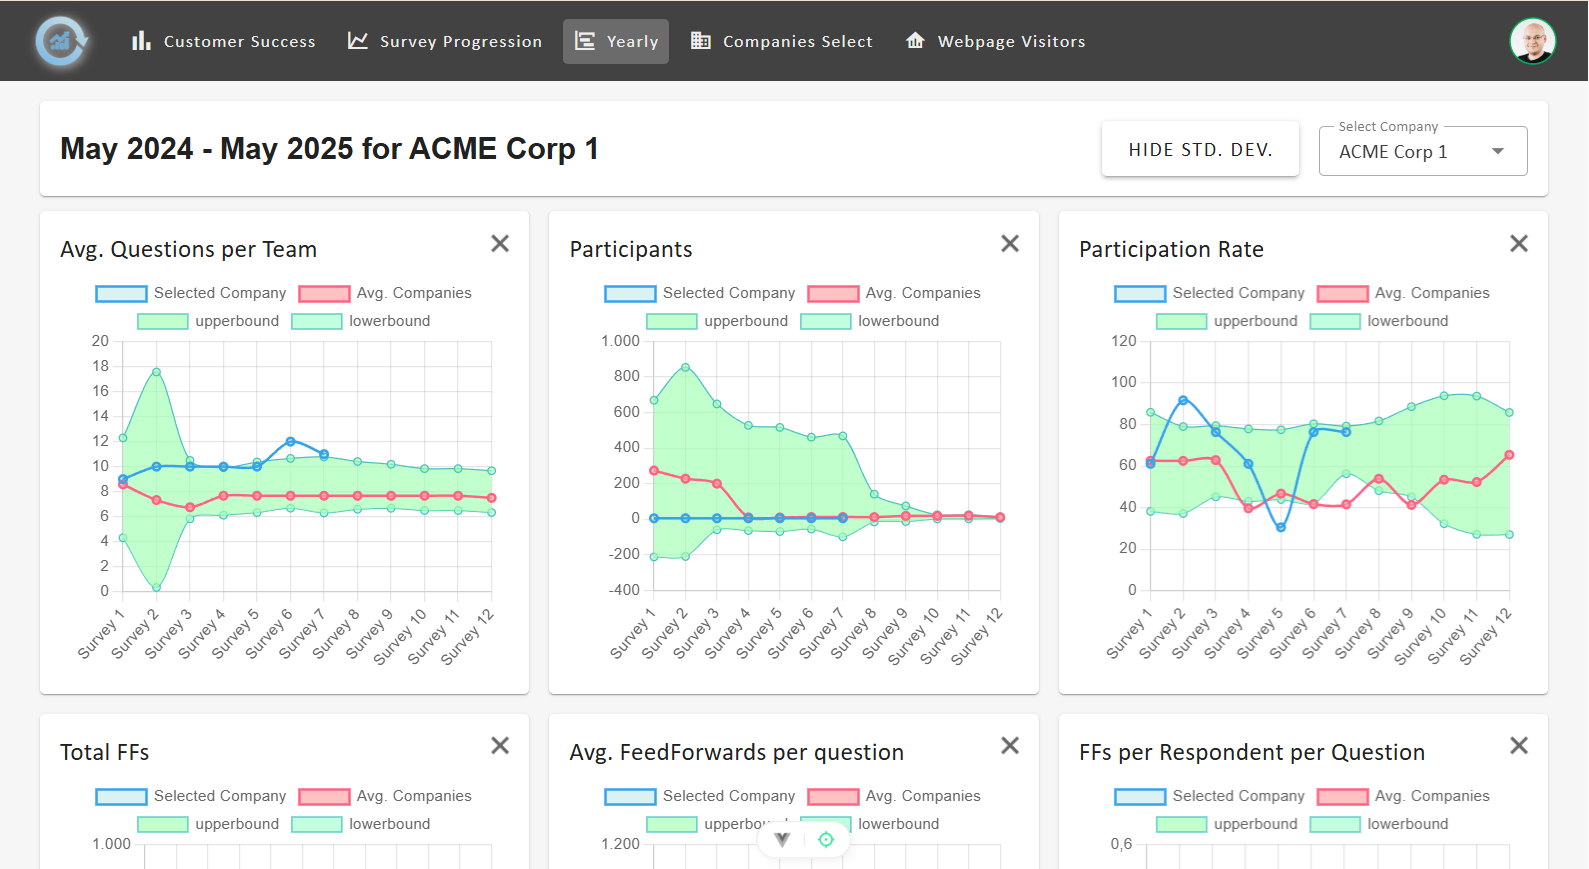
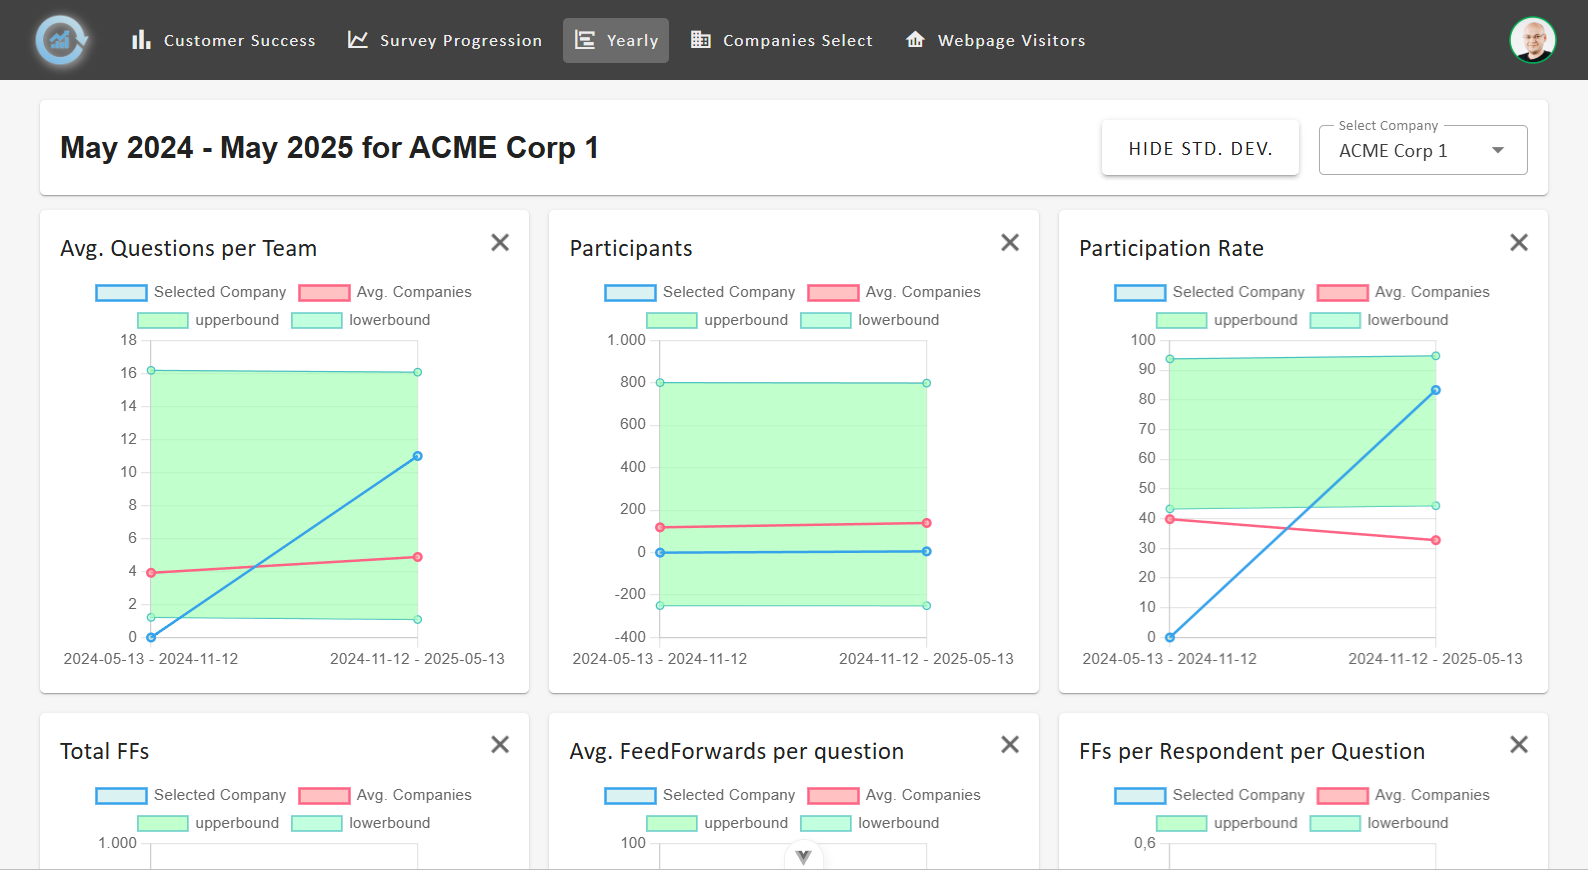
- fix yearly chart

diff --git a/frontend/src/components/views/YearlyDevelopmentDashboard.vue b/frontend/src/components/views/YearlyDevelopmentDashboard.vue
@@ -1,7 +1,12 @@
 <script setup lang="ts">
 import { useI18n } from 'vue-i18n'
 import { computed, ComputedRef, onMounted, Ref, ref } from 'vue'
-import { getKpiAvgPerSurvey, calculateKpiStandardDeviationsPerSurvey } from '@/utils/transformData'
+import {
+  getKpiAvgPerSurvey,
+  calculateKpiStandardDeviationsPerSurvey,
+  transformSurveyData,
+  calculateKpiStandardDeviations,
+} from '@/utils/transformData'
 import { pick } from 'lodash'
 import { PROGRESS_KPI_SORTING_ORDER } from '@/config/constants'
 import { KPIData, RelevantSurveyMetrics, SurveyKPI } from '@/types/SurveyMetrics'
@@ -29,11 +34,51 @@ const { selectedCompaniesRef, selectedCompany } = useUser()
 const savedShowSdtDev = localStorage.getItem('showStdDev')
 const showStdDev: Ref<boolean> = ref(savedShowSdtDev !== null ? JSON.parse(savedShowSdtDev) : false)
 
-const selectedCompanySurveysList = computed(() => {
-  if (selectedCompany?.value.id === 'loading') return []
+const currentDate = new Date()
+const oneYearAgo = new Date()
+oneYearAgo.setFullYear(currentDate.getFullYear() - 1)
 
-  const surveyList = props.data?.[selectedCompany.value.id]?.surveysList
-  return calculateAvgKPIs(surveyList || [])
+const timeDifference = currentDate.getTime() - oneYearAgo.getTime()
+const halfTimeDifference = timeDifference / 2
+
+const firstHalfStartDate = new Date(oneYearAgo.getTime())
+const firstHalfEndDate = new Date(oneYearAgo.getTime() + halfTimeDifference)
+const secondHalfStartDate = new Date(oneYearAgo.getTime() + halfTimeDifference + 1) // Add 1 millisecond to avoid overlap
+const secondHalfEndDate = new Date(currentDate.getTime())
+const firstHalfDateString = `${firstHalfStartDate.toISOString().split('T')[0]} - ${firstHalfEndDate.toISOString().split('T')[0]}`
+const secondHalfDateString = `${secondHalfStartDate.toISOString().split('T')[0]} - ${secondHalfEndDate.toISOString().split('T')[0]}`
+
+const getHalfYearAggregatedSurveyLists = (surveyList: any[]) => {
+  const filteredToFirstHalfSurveysList = surveyList.filter((survey: KPIData) => {
+    const surveyEndDate = new Date(survey.endDate)
+    return surveyEndDate >= firstHalfStartDate && surveyEndDate <= firstHalfEndDate
+  })
+
+  const filteredToSecondHalfSurveysList = surveyList.filter((survey: KPIData) => {
+    const surveyEndDate = new Date(survey.endDate)
+    return surveyEndDate >= secondHalfStartDate && surveyEndDate <= secondHalfEndDate
+  })
+
+  return [calculateAvgKPIs(filteredToFirstHalfSurveysList), calculateAvgKPIs(filteredToSecondHalfSurveysList)]
+}
+
+const getTransformedHalfYearKpis = (surveyList: any[]) => {
+  let [firstHalfSurveysList, secondHalfSurveysList] = getHalfYearAggregatedSurveyLists(surveyList)
+  if (firstHalfSurveysList?.length) {
+    firstHalfSurveysList = transformSurveyData(firstHalfSurveysList)
+  }
+  if (secondHalfSurveysList?.length) {
+    secondHalfSurveysList = transformSurveyData(secondHalfSurveysList)
+  }
+  return [firstHalfSurveysList, secondHalfSurveysList]
+}
+
+const selectedCompanySurveysList = computed(() => {
+  if (selectedCompany?.value.id === 'loading' || !selectedCompany?.value?.id) return []
+
+  const surveyList = props.data?.[selectedCompany.value.id]?.surveysList || []
+  const [firstHalfKpis, secondHalfKpis] = getTransformedHalfYearKpis(surveyList)
+  return [firstHalfKpis, secondHalfKpis]
 })
 
 const relevantCompaniesWithSurveysList = computed(() => {
@@ -81,16 +126,8 @@ const calculateAvgKPIs = (surveysList: any[]): KPIData => {
 
 const pickedKpisPerSurveyOfRelevantCompaniesList: ComputedRef<RelevantSurveyMetrics[]> = computed(() =>
   relevantCompaniesWithSurveysList.value.map((company: any) => {
-    const filteredToLastYearSurveysList = company.surveysList.filter((survey: KPIData) => {
-      const surveyEndDate = new Date(survey.endDate)
-      const currentDate = new Date()
-      const oneYearAgo = new Date()
-      oneYearAgo.setFullYear(currentDate.getFullYear() - 1)
-      return surveyEndDate >= oneYearAgo && surveyEndDate <= currentDate
-    })
-
-    const pickedKpisList = calculateAvgKPIs(filteredToLastYearSurveysList)
-    return pickedKpisList
+    const [firstHalfKpis, secondHalfKpis] = getTransformedHalfYearKpis(company.surveysList)
+    return [firstHalfKpis, secondHalfKpis]
   })
 )
 
@@ -106,9 +143,23 @@ const filteredProcessDataList = computed(() => {
   if (!selectedCompanySurveysList.value.length) return []
 
   const withStdDevPerSurveyList = calculateKpiStandardDeviationsPerSurvey(
-    relevantCompaniesWithSurveysList.value.map(company =>
-      JSON.parse(JSON.stringify(calculateAvgKPIs(company.surveysList)))
-    )
+    relevantCompaniesWithSurveysList.value.map(company => {
+      const [firstHalfKpis, secondHalfKpis] = getTransformedHalfYearKpis(company.surveysList)
+      /* make some sanity checks. If there are no surveys in first of seconds half of the year
+       * for a company, then just duplicate available aggregated Kpis for the half year that
+       * is available, otherwise just return empty array. That basically falsifies the data
+       * but I don't see a more sane way to handle this right now */
+      if (firstHalfKpis instanceof Array && !(secondHalfKpis instanceof Array)) {
+        return [secondHalfKpis, secondHalfKpis]
+      }
+      if (secondHalfKpis instanceof Array && !(firstHalfKpis instanceof Array)) {
+        return [firstHalfKpis, firstHalfKpis]
+      }
+      if (firstHalfKpis instanceof Array && secondHalfKpis instanceof Array) {
+        return []
+      }
+      return [firstHalfKpis, secondHalfKpis]
+    })
   )
 
   const referenceKpisPerSurveyList: RelevantSurveyMetrics = getKpiAvgPerSurvey(
@@ -118,7 +169,6 @@ const filteredProcessDataList = computed(() => {
   const sortedSurveyData = []
   ;[...Array(maxSurveys.value)].forEach((_, surveyIndex) => {
     const survey = referenceKpisPerSurveyList[surveyIndex]
-    // console.log('survey: ', survey, ' - survey no. ', surveyIndex)
 
     Object.keys(survey).forEach((key: SurveyKPI) => {
       const index = PROGRESS_KPI_SORTING_ORDER.findIndex((kpi: SurveyKPI) => kpi === key)
@@ -143,7 +193,7 @@ const filteredProcessDataList = computed(() => {
 })
 
 const labelsList = computed(() => {
-  return [...Array(maxSurveys.value)].map((_, index) => `Survey ${index + 1}`).slice(0, showableSurveys.value) || []
+  return [firstHalfDateString, secondHalfDateString]
 })
 
 const isMounted: Ref<boolean> = ref(false)
